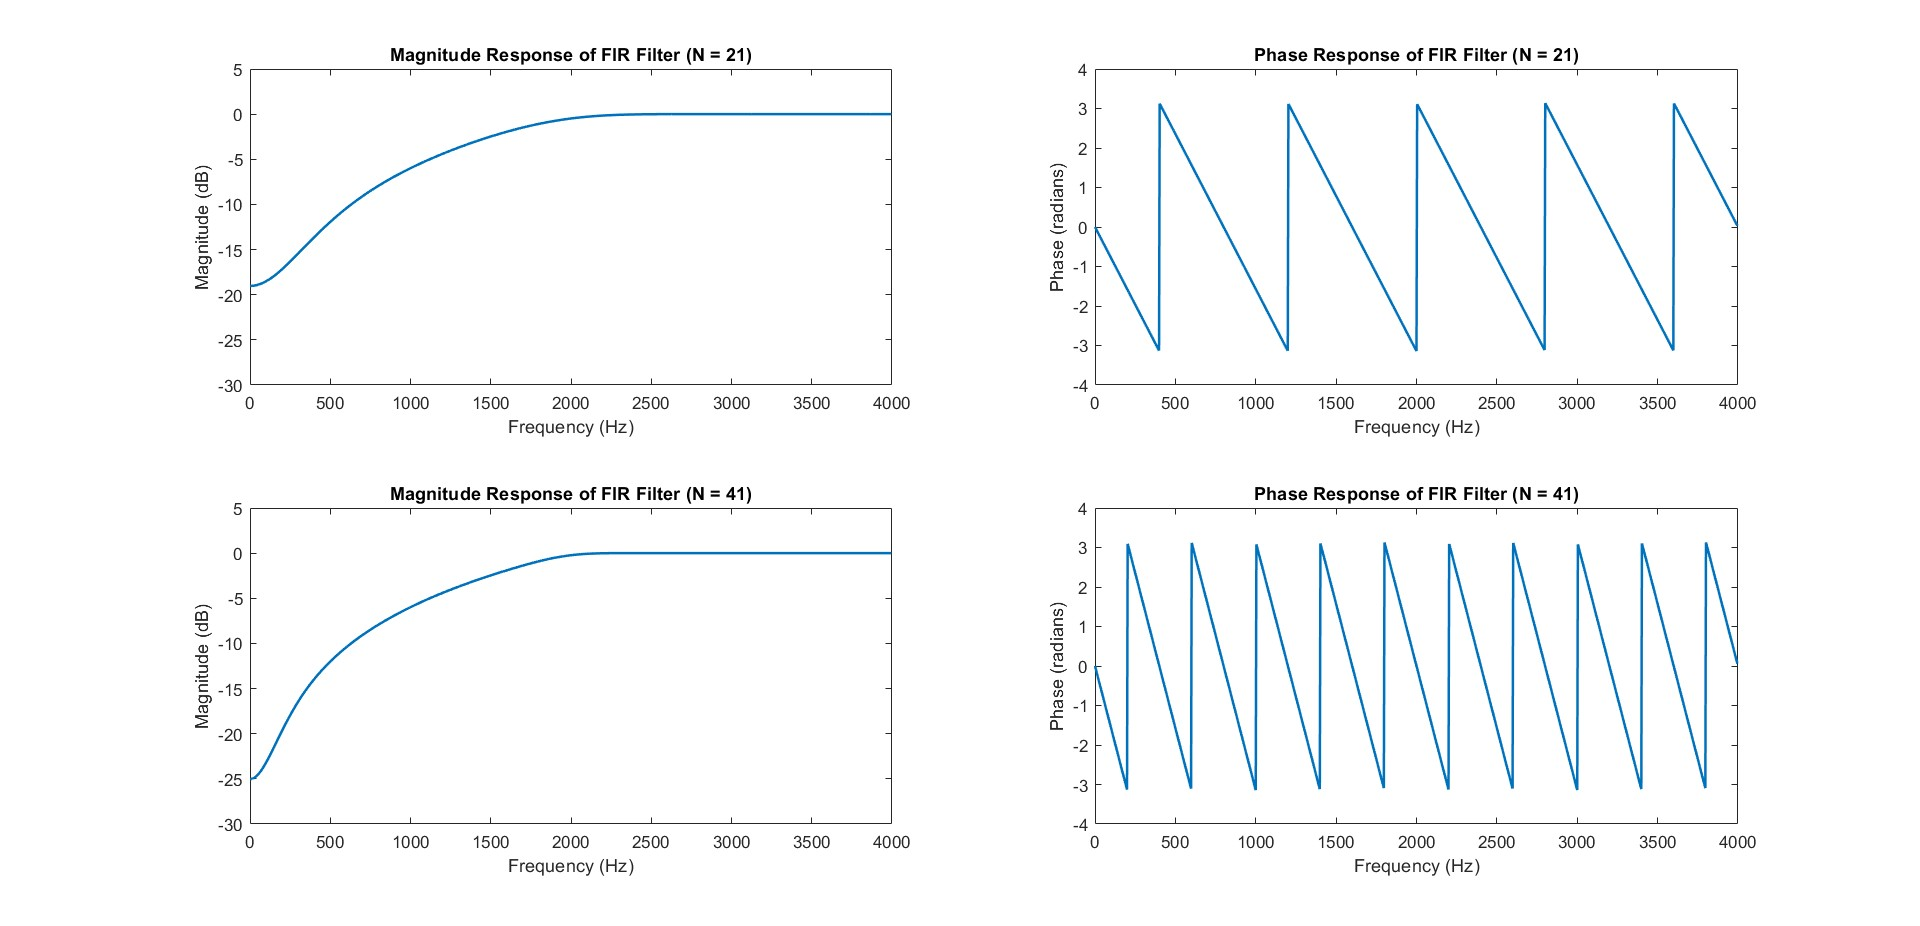
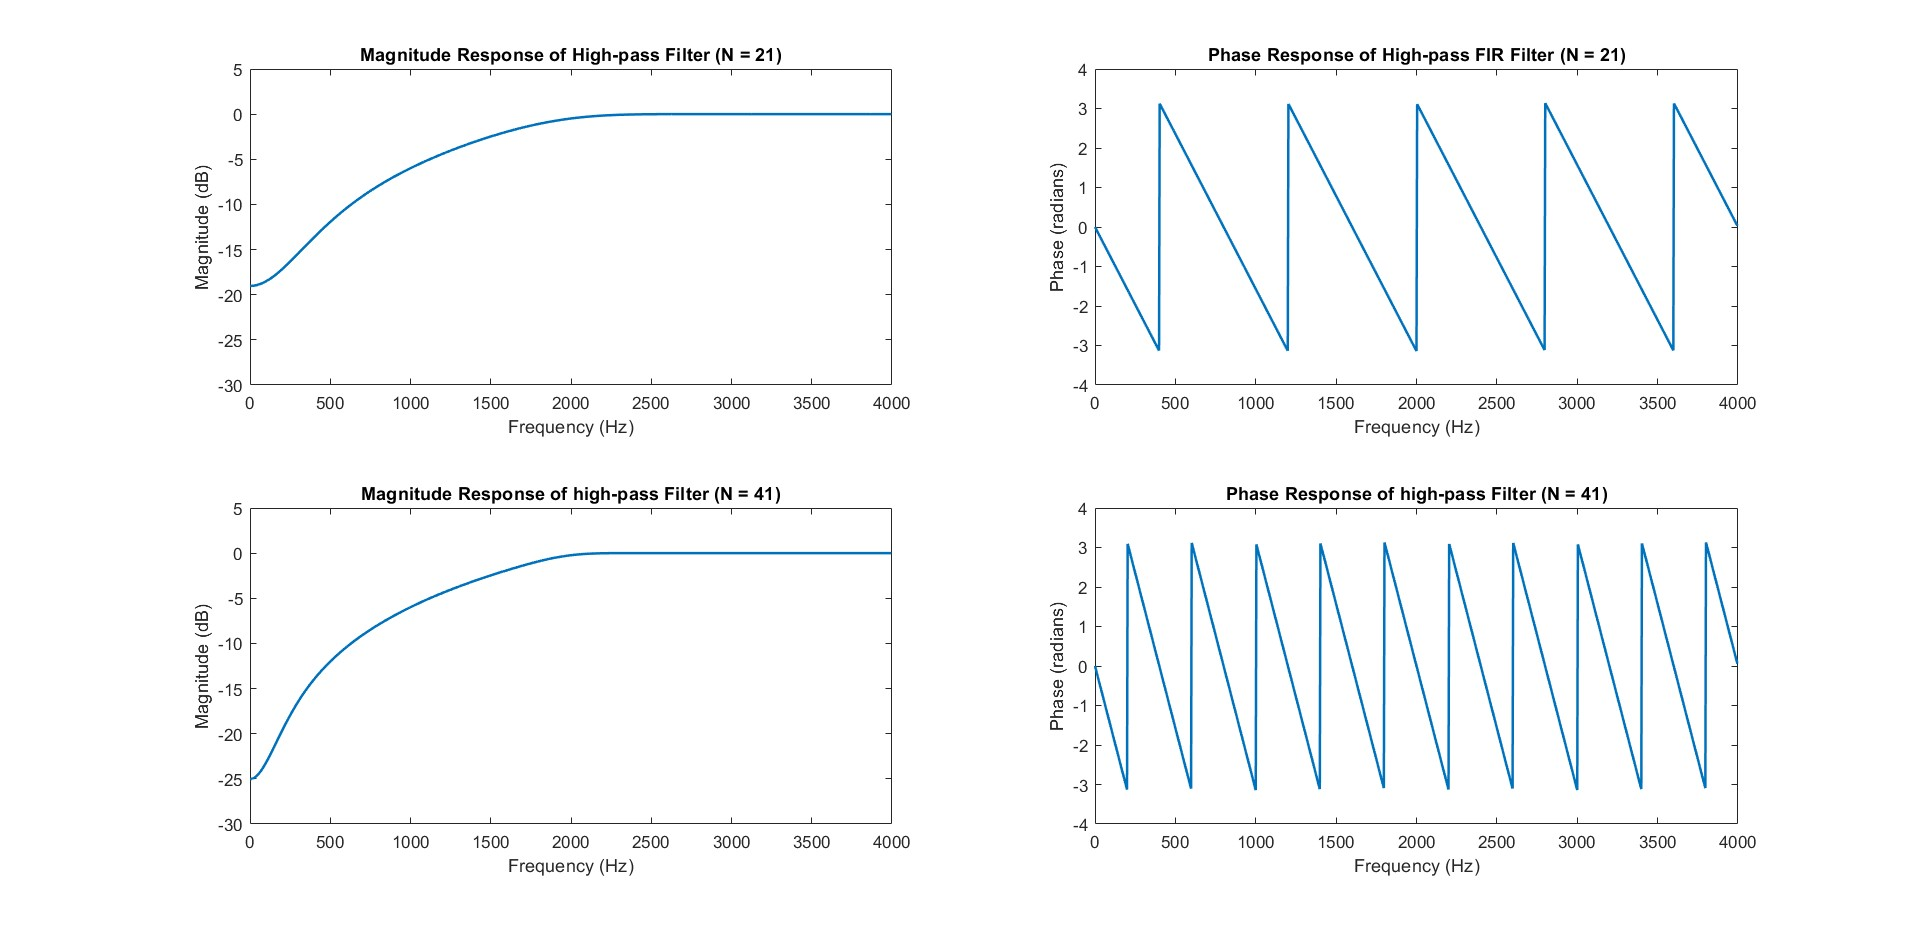
Add files via upload

diff --git a/high_pass_FIR_with_builtin.m b/high_pass_FIR_with_builtin.m
@@ -38,7 +38,7 @@ disp(h2);
 % magnitude spectrum for N=21
 subplot(2, 2, 1);
 plot(w1, 20*log10(abs(H1)), 'LineWidth', 1.5);
-title('Magnitude Response of FIR Filter (N = 21)');
+title('Magnitude Response of High-pass Filter (N = 21)');
 xlabel('Frequency (Hz)');
 ylabel('Magnitude (dB)');
 ylim([-30 5]);
@@ -46,14 +46,14 @@ ylim([-30 5]);
 % phase spectrum for N=21
 subplot(2, 2, 2);
 plot(w1, angle(H1), 'LineWidth', 1.5);
-title('Phase Response of FIR Filter (N = 21)');
+title('Phase Response of High-pass FIR Filter (N = 21)');
 xlabel('Frequency (Hz)');
 ylabel('Phase (radians)');
 
 % magnitude spectrum for N=41
 subplot(2, 2, 3);
 plot(w2, 20*log10(abs(H2)), 'LineWidth', 1.5);
-title('Magnitude Response of FIR Filter (N = 41)');
+title('Magnitude Response of high-pass Filter (N = 41)');
 xlabel('Frequency (Hz)');
 ylabel('Magnitude (dB)');
 ylim([-30 5]);
@@ -61,7 +61,7 @@ ylim([-30 5]);
 % phase spectrum for N=41
 subplot(2, 2, 4);
 plot(w1, angle(H2), 'LineWidth', 1.5);
-title('Phase Response of FIR Filter (N = 41)');
+title('Phase Response of high-pass Filter (N = 41)');
 xlabel('Frequency (Hz)');
 ylabel('Phase (radians)');
 

diff --git a/low_pass_FIR_with_builtin.m b/low_pass_FIR_with_builtin.m
@@ -38,7 +38,7 @@ disp(h2);
 % magnitude spectrum for N=21
 subplot(2, 2, 1);
 plot(w1, 20*log10(abs(H1)), 'LineWidth', 1.5);
-title('Magnitude Response of FIR Filter (N = 21)');
+title('Magnitude Response of low-pass Filter (N = 21)');
 xlabel('Frequency (Hz)');
 ylabel('Magnitude (dB)');
 ylim([-30 5]);
@@ -46,14 +46,14 @@ ylim([-30 5]);
 % phase spectrum for N=21
 subplot(2, 2, 2);
 plot(w1, angle(H1), 'LineWidth', 1.5);
-title('Phase Response of FIR Filter (N = 21)');
+title('Phase Response of low-pass Filter (N = 21)');
 xlabel('Frequency (Hz)');
 ylabel('Phase (radians)');
 
 % magnitude spectrum for N=41
 subplot(2, 2, 3);
 plot(w2, 20*log10(abs(H2)), 'LineWidth', 1.5);
-title('Magnitude Response of FIR Filter (N = 41)');
+title('Magnitude Response of low-pass Filter (N = 41)');
 xlabel('Frequency (Hz)');
 ylabel('Magnitude (dB)');
 ylim([-30 5]);
@@ -61,7 +61,7 @@ ylim([-30 5]);
 % phase spectrum for N=41
 subplot(2, 2, 4);
 plot(w1, angle(H2), 'LineWidth', 1.5);
-title('Phase Response of FIR Filter (N = 41)');
+title('Phase Response of low-pass Filter (N = 41)');
 xlabel('Frequency (Hz)');
 ylabel('Phase (radians)');
 

diff --git a/band_reject_FIR_with_builtin.m b/band_reject_FIR_with_builtin.m
@@ -40,7 +40,7 @@ disp(h2);
 % magnitude spectrum for N=21
 subplot(2, 2, 1);
 plot(w1, 20*log10(abs(H1)), 'LineWidth', 1.5);
-title('Magnitude Response of Band-Pass FIR Filter (N = 21)');
+title('Magnitude Response of Band-Reject FIR Filter (N = 21)');
 xlabel('Frequency (Hz)');
 ylabel('Magnitude (dB)');
 ylim([-65 5]);
@@ -48,7 +48,7 @@ ylim([-65 5]);
 % phase spectrum for N=21
 subplot(2, 2, 2);
 plot(w1, angle(H1), 'LineWidth', 1.5);
-title('Phase Response of Band-Pass FIR Filter (N = 21)');
+title('Phase Response of Band-Reject FIR Filter (N = 21)');
 xlabel('Frequency (Hz)');
 ylabel('Phase (radians)');
 
